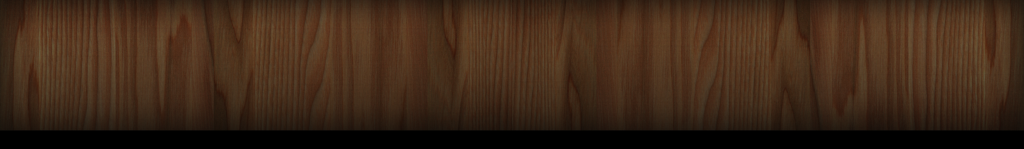
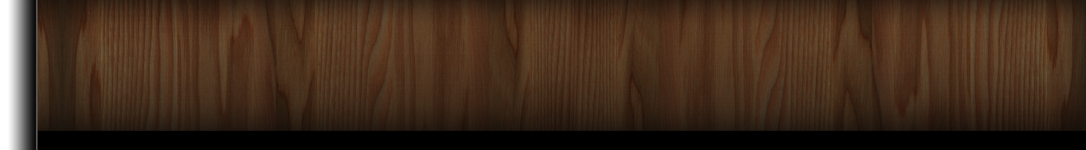
添加新的shelf图片素材

diff --git a/VCard/ShelfViewController.m b/VCard/ShelfViewController.m
@@ -22,7 +22,6 @@
 
 @interface ShelfViewController () {
     UIImageView *_shelfBGImageView;
-    UIImageView *_shelfEdgeImageView;
     NSInteger _numberOfPages;
     NSInteger _numberOfDrawerPerPage;
 }
@@ -261,8 +260,8 @@
 #pragma mark - Setting View Behavior
 - (void)setUpSettingView
 {
-    [_brightnessSlider setThumbImage:[UIImage imageNamed:@"motions_slider_thumb.png"] forState:UIControlStateNormal];
-	[_brightnessSlider setThumbImage:[UIImage imageNamed:@"motions_slider_thumb.png"] forState:UIControlStateHighlighted];
+    [_brightnessSlider setThumbImage:[UIImage imageNamed:@"shelf_slider_thumb.png"] forState:UIControlStateNormal];
+	[_brightnessSlider setThumbImage:[UIImage imageNamed:@"shelf_slider_thumb.png"] forState:UIControlStateHighlighted];
 	[_brightnessSlider setMinimumTrackImage:[UIImage imageNamed:@"transparent.png"] forState:UIControlStateNormal];
 	[_brightnessSlider setMaximumTrackImage:[UIImage imageNamed:@"transparent.png"] forState:UIControlStateNormal];
     
@@ -301,22 +300,14 @@
     [_scrollView resetWidth:[UIApplication screenWidth]];
     [_scrollView resetHeight:149.0];
     ShelfBackgroundView *view = (ShelfBackgroundView *)self.view;
-    view.scrollViewReference = (ShelfScrollView *)_scrollView;
+    view.scrollViewReference = (ShelfScrollView *)_scrollView; 
     
-    _shelfEdgeImageView = [[UIImageView alloc] initWithFrame:CGRectMake(0.0, 0.0, 62.0, 136.0)];
-    _shelfEdgeImageView.image = [UIImage imageNamed:@"shelf_wood_edge.png"];
-    _shelfEdgeImageView.contentMode = UIViewContentModeTop;
-    _shelfEdgeImageView.autoresizingMask = UIViewAutoresizingNone;
-    _shelfEdgeImageView.userInteractionEnabled = NO;
-    [_shelfEdgeImageView resetOriginX:_scrollView.frame.size.width - _shelfEdgeImageView.frame.size.width];
-    [_scrollView insertSubview:_shelfEdgeImageView belowSubview:_shelfBorderImageView];
-    
-    _shelfBGImageView = [[UIImageView alloc] initWithFrame:CGRectMake(0.0, 6.0, 1024.0, 136.0)];
+    _shelfBGImageView = [[UIImageView alloc] initWithFrame:CGRectMake(-62.0, 0.0, 1064.0, 150.0)];
     _shelfBGImageView.image = [UIImage imageNamed:@"shelf_bg.png"];
     _shelfBGImageView.contentMode = UIViewContentModeLeft;
     _shelfBGImageView.autoresizingMask = UIViewAutoresizingNone;
     _shelfBGImageView.userInteractionEnabled = NO;
-    [_shelfBGImageView resetOriginX:_scrollView.frame.size.width];
+    [_shelfBGImageView resetOriginX:_scrollView.frame.size.width - 62.0];
     [_scrollView insertSubview:_shelfBGImageView belowSubview:_shelfBorderImageView];
     
     [_shelfBorderImageView resetWidth:1024.0];
@@ -428,20 +419,19 @@
 
 - (void)resetBGImageView:(CGFloat)currentWidth
 {
-    [_shelfEdgeImageView resetOriginX:currentWidth - _shelfEdgeImageView.frame.size.width];
     if (_pageControl.currentPage > 0) {
         currentWidth = _pageControl.currentPage * currentWidth;
     }
-    [_shelfBGImageView resetOriginX:currentWidth];
+    [_shelfBGImageView resetOriginX:currentWidth - 62.0];
 }
 
 - (void)scrollViewDidScroll:(UIScrollView *)scrollView
 {
     CGFloat screenWidth = [UIApplication screenWidth];
     if (scrollView.contentOffset.x >= screenWidth) {
-        [_shelfBGImageView resetOriginX:_scrollView.contentOffset.x];
+        [_shelfBGImageView resetOriginX:_scrollView.contentOffset.x - 62.0];
     } else {
-        [_shelfBGImageView resetOriginX:screenWidth];
+        [_shelfBGImageView resetOriginX:screenWidth - 62.0];
     }
     [_shelfBorderImageView resetOriginX:_scrollView.contentOffset.x];
 }

diff --git a/VCard/ShelfDrawerView.m b/VCard/ShelfDrawerView.m
@@ -9,7 +9,9 @@
 #import "ShelfDrawerView.h"
 #import "UIImageView+URL.h"
 
-#define kPhotoFrameFrame CGRectMake(-27.0, -32.0, 148.0, 144.0)
+#define kDrawerFrame CGRectMake(-27.0, -32.0, 148.0, 144.0)
+#define kEmptyDrawerFrame CGRectMake(0, 0, 150, 74)
+#define kTopicPaperFrame CGRectMake(0, 0, 160, 104)
 #define kTopicLabelFrame CGRectMake(0, 55.0, 95.0, 35.0)
 
 @implementation ShelfDrawerView
@@ -45,16 +47,18 @@
     _backImageView = [[UIImageView alloc] initWithFrame:self.bounds];
     _backImageView.image = [UIImage imageNamed:kRLAvatarPlaceHolderBG];
     
-    _photoFrameImageView = [[UIImageView alloc] initWithFrame:kPhotoFrameFrame];
-    
     
     NSString *imageName = @"shelf_drawer.png";
+    CGRect frame;
     if (_type == 0) {
         imageName = @"shelf_drawer_favorites.png";
+        frame = kDrawerFrame;
     } else if (_type == 1) {
-        imageName = @"";
+        imageName = empty ? @"shelf_drawer_empty.png" : @"shelf_drawer.png";
+        frame = empty ? kEmptyDrawerFrame : kDrawerFrame;
     } else {
-        imageName = @"";
+        imageName = @"topic_paper.png";
+        frame = kTopicPaperFrame;
     }
     _photoFrameImageView.image = [UIImage imageNamed:imageName];
     _photoFrameImageView.opaque = YES;

diff --git a/VCard/InnerBrowserViewController.m b/VCard/InnerBrowserViewController.m
@@ -89,7 +89,7 @@
                                                              delegate:self 
                                                     cancelButtonTitle:nil 
                                                destructiveButtonTitle:nil
-                                                    otherButtonTitles:@"复制链接", @"在safari中打开", nil];
+                                                    otherButtonTitles:@"复制链接", @"在 Safari 中打开", nil];
     actionSheet.delegate = self;
     [actionSheet showFromRect:sender.bounds inView:sender animated:YES];
 }

diff --git a/VCard/RootViewController.m b/VCard/RootViewController.m
@@ -16,7 +16,7 @@
 #import "NSUserDefaults+Addition.h"
 #import "GuideBookViewController.h"
 
-#define kShelfViewControllerFrame CGRectMake(0.0, -147.0, 768.0, 147.0);
+#define kShelfViewControllerFrame CGRectMake(0.0, -150.0, 768.0, 150.0);
 
 @interface RootViewController ()
 
